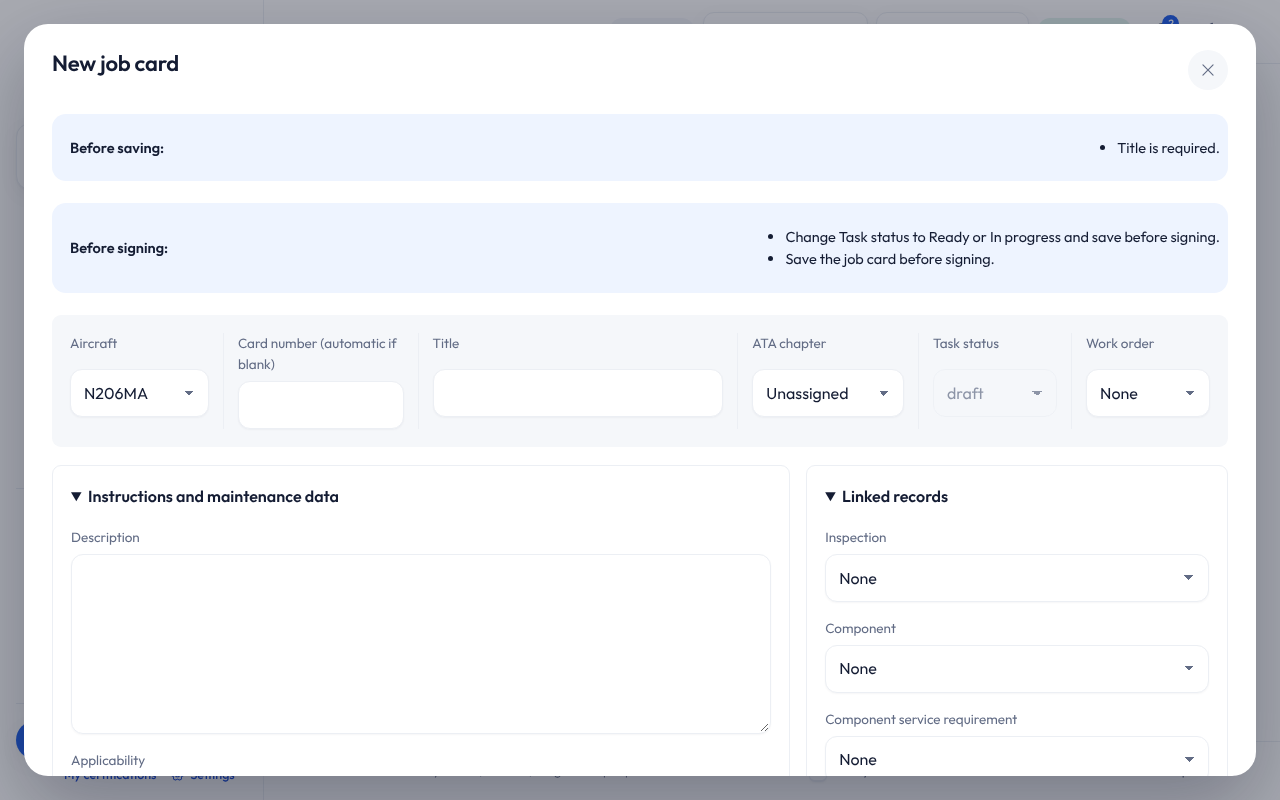
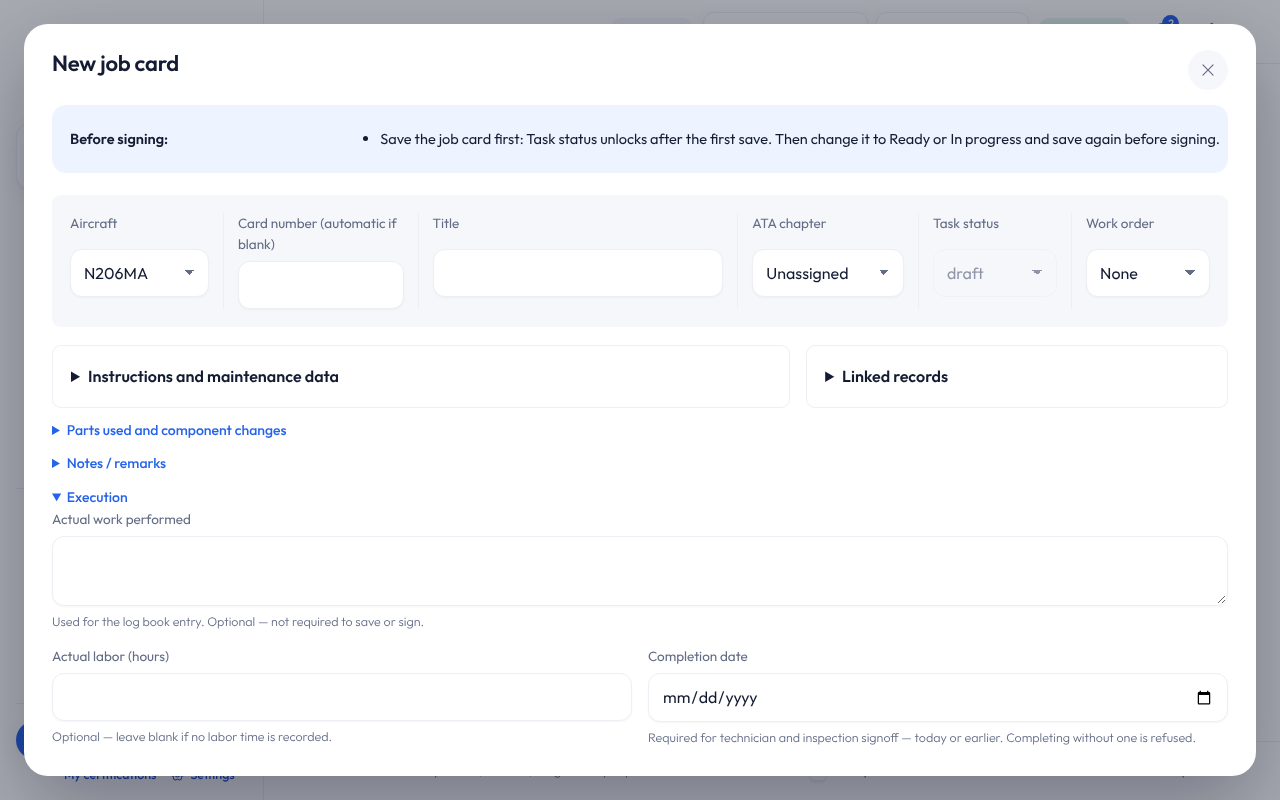
Say the completion date is needed for technician and inspection signoff
Step signoffs need no completion date (signoffRefusal returns before the
date check for a step), so the hint now reads "Required for technician
and inspection signoff — today or earlier. Completing without one is
refused." The job-card browser test pins it, and its header is wrapped
at 80 columns. The wiki's Job-Cards page and the task-cards page say the
same, and the job-card screenshot is retaken to show the single Before
signing warning and the new hint.

diff --git a/tests/e2e/task-cards.spec.ts b/tests/e2e/task-cards.spec.ts
@@ -1,7 +1,7 @@
 /**
  * Responsibility: Pins job cards: a linked card's notes, evidence, parts and
- *   signoffs; a new card's signing advice and completion-date hint; inspector signoff only with an approved maintenance
- *   certificate on file;
+ *   signoffs; a new card's signing advice and completion-date hint;
+ *   inspector signoff only with an approved maintenance certificate on file;
  *   the stock picker's usable quantities and expired lots; and no
  *   unreachable scrolling region on an empty list.
  * Layer: Test. Playwright spec against the demo in a production build.
@@ -17,7 +17,7 @@ const DAY_MS = 86400000;
 const NEW_CARD_SIGNING =
   "Save the job card first: Task status unlocks after the first save. Then change it to Ready or In progress and save again before signing.";
 const COMPLETION_DATE_HINT =
-  "Required to sign — today or earlier. Signing or completing without one is refused.";
+  "Required for technician and inspection signoff — today or earlier. Completing without one is refused.";
 const INSPECTOR_HINT =
   "Add your certificate type and number under My certifications to sign as inspector.";
 const PENDING_HINT =

diff --git a/src/components/TaskCards.tsx b/src/components/TaskCards.tsx
@@ -1790,7 +1790,7 @@ function ExecutionFields({ e }: { e: Editor }) {
       </Field>
       <Field
         label="Completion date"
-        hint="Required to sign — today or earlier. Signing or completing without one is refused."
+        hint="Required for technician and inspection signoff — today or earlier. Completing without one is refused."
       >
         <input
           type="date"

diff --git a/docs/wiki/Job-Cards.md b/docs/wiki/Job-Cards.md
@@ -33,7 +33,7 @@ Later template edits change future copies only.
 
 ## Complete and sign a job card
 
-![The New job card form](images/job-card.png)
+![The New job card form: Before signing, and the Completion date hint under Execution](images/job-card.png)
 
 1. Open the card from its work order, or **New job card**.
 2. Fill in the title, description, ATA chapter and **Maintenance-data
@@ -42,7 +42,9 @@ Later template edits change future copies only.
 3. Change **Task status** to **ready** or **in progress** and save again. The
    status is locked until the first save.
 4. Under **Execution**, enter the **Completion date** (today or earlier),
-   required to sign, and **Actual work performed** (optional). Save.
+   required for the technician and inspection signoffs and to complete the
+   card, and **Actual work performed** (optional). Save. Step signoffs need
+   no date.
 5. Record parts under **Parts used and component changes**: a **Non-stock
    item**, or **Inventory stock** from a location.
 6. Upload evidence (photos, documents or parts traceability; PDF, JPEG or PNG,

diff --git a/docs/task-cards.md b/docs/task-cards.md
@@ -14,7 +14,7 @@ Save a draft before uploading evidence. PDF, JPEG and PNG files up to 7 MiB can 
 
 Statuses are draft, ready, in progress, awaiting parts, awaiting inspection, completed and canceled. To complete a card:
 
-1. Change Draft to In progress, enter the completion date (today or earlier), then save. The date is required: signing or completing a card without one is refused with "Enter a completion date (today or earlier) before signing or completing this job card." Actual work performed is optional but belongs in the record.
+1. Change Draft to In progress, enter the completion date (today or earlier), then save. The date is required for the technician and inspection signoffs (not step signoffs): signing them or completing the card without one is refused with "Enter a completion date (today or earlier) before signing or completing this job card." Actual work performed is optional but belongs in the record.
 2. Record technician signoff, then inspection signoff when required.
 3. Select completed and save.
 
